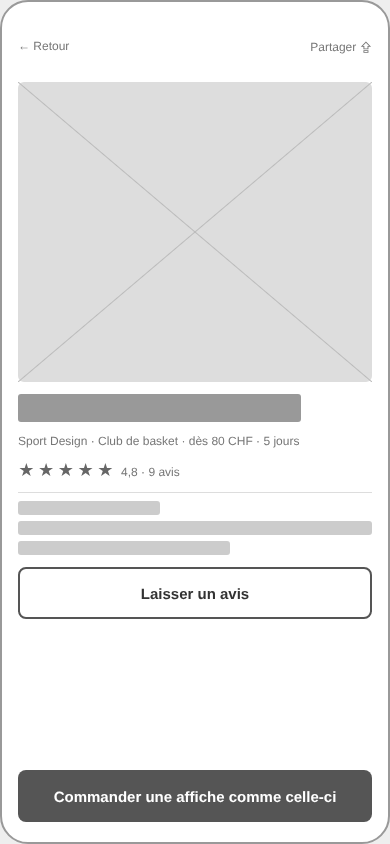
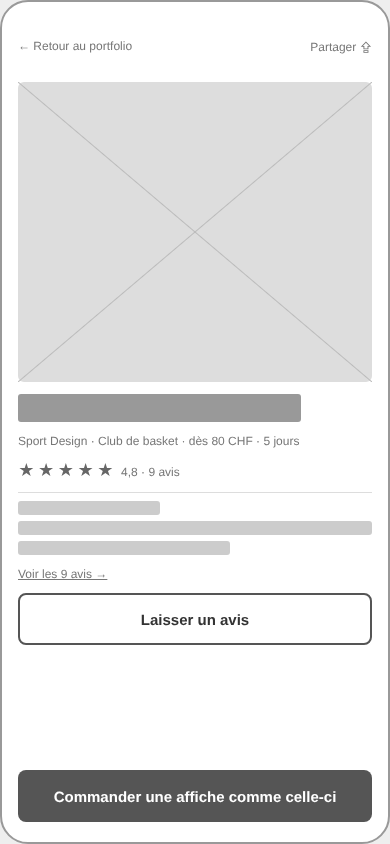
Revue croisée Marlon, proposition A style site, wireframe confirmation

diff --git a/brief.md b/brief.md
@@ -15,6 +15,7 @@ Marc, 34 ans, responsable communication bénévole d’un club de basket. Il uti
 - Écran 2 : Fiche réalisation
 - Écran 3 : Commander une affiche
 - Écran 4 : Contact / Rendez-vous
+- Écran 5 : Confirmation (après commande ou message)
 
 ## Contenu de chaque écran
 
@@ -25,12 +26,12 @@ Marc, 34 ans, responsable communication bénévole d’un club de basket. Il uti
 
 ### Écran 2 — Fiche réalisation
 - On y voit : grande image, titre, client, catégorie, prix « dès … CHF », délai, note moyenne et liste des avis.
-- On peut y faire : lire et laisser un avis (note 1–5 + commentaire), partager la réalisation, revenir à la liste.
+- On peut y faire : voir tous les avis (lien « Voir les avis »), laisser un avis (note 1–5 + commentaire), partager la réalisation, revenir au portfolio (bouton « ← Retour au portfolio »).
 - Bouton principal : « Commander une affiche comme celle-ci »
 
 ### Écran 3 — Commander une affiche
-- On y voit : un formulaire court (type d’affiche, club / nom, date, infos, e-mail), le prix indicatif, puis un écran de confirmation.
-- On peut y faire : choisir le type (match, événement, présentation joueur), remplir et envoyer, partager après envoi.
+- On y voit : un formulaire court (type d’affiche, club / nom, date, infos, e-mail) et le prix indicatif.
+- On peut y faire : choisir le type (match, événement, présentation joueur), remplir et envoyer, revenir à la réalisation (« ← Retour »).
 - Bouton principal : « Envoyer ma commande »
 
 ### Écran 4 — Contact / Rendez-vous
@@ -38,18 +39,27 @@ Marc, 34 ans, responsable communication bénévole d’un club de basket. Il uti
 - On peut y faire : envoyer un message ou demander un rendez-vous.
 - Bouton principal : « Envoyer »
 
+### Écran 5 — Confirmation
+- On y voit : une coche, « Commande envoyée ! Réponse sous 48 h. »
+- On peut y faire : partager, me contacter, revenir au portfolio.
+- Bouton principal : « Retour au portfolio »
+
+## Fonctions simulées (prototype)
+
+L’app est un prototype : l’envoi des commandes et des messages, la demande de rendez-vous, l’enregistrement des avis et le partage sont **simulés** (données en JavaScript / stockage local, pas de serveur ni d’e-mail réel). L’écran de confirmation l’indique.
+
 ## Ambiance visuelle
 
-Audacieuse, premium, sportive. Comme une affiche de match : grosses typos, fond sombre, une seule couleur qui claque.
+Audacieuse, premium, sportive. Dans le même style que mon site zinedinelakhbir.ch : grand bandeau orange, gros titres en majuscules, cartes numérotées arrondies.
 
 ## Palette
 
-- Fond : noir profond
-- Texte : blanc cassé
+- Fond : blanc rosé très clair
+- Texte : noir profond
 - Accent : orange vif (couleur ZL Design)
-- Attention / erreur : rouge clair, bien lisible sur fond noir
+- Attention / erreur : rouge foncé, bien lisible sur fond clair
 
-(Couleurs en mots pour l’instant ; hex en s7-s9.)
+(Couleurs en mots pour l’instant ; hex en s7-s9. Référence : brandboard ZL Design.)
 
 ## Contraintes techniques
 
@@ -63,3 +73,11 @@ Audacieuse, premium, sportive. Comme une affiche de match : grosses typos, fond 
 - pas de paiement en ligne
 - pas de pop-up ni de bannière publicitaire
 - pas de formulaire de plus de 5 champs
+
+## Revue croisée — Marlon Pavid
+
+1. L’app se comprend rapidement : portfolio → réalisation → commande / contact.
+2. Pas d’écran manquant, mais ajouter des boutons clairs : retour au portfolio, retour après confirmation, accès aux avis.
+3. Faisable en 4 semaines. Attention aux commandes réellement envoyées, au rendez-vous, aux avis et au partage : préciser que c’est simulé.
+
+**Corrections apportées :** boutons « Retour au portfolio » (écrans 2 et 5) et « Retour » (écran 3), lien « Voir les avis » (écran 2), écran 5 Confirmation ajouté, section « Fonctions simulées » ajoutée.

diff --git a/design/critique.md b/design/critique.md
@@ -1,20 +1,20 @@
 # Critique comparative des propositions de design
 
-Les 3 propositions de l’écran Accueil / Portfolio ont été générées avec une IA (Claude) à partir de [brief.md](../brief.md) et des wireframes. Images : `design/propositions/`.
+Les 3 propositions de l’écran Accueil / Portfolio ont été générées avec une IA (Claude) à partir de [brief.md](../brief.md), des wireframes et du brandboard ZL Design. Images : `design/propositions/`.
 
-## Proposition A — « Matchday »
+## Proposition A — « Matchday » (style zinedinelakhbir.ch)
 
 ![A](propositions/proposition-A-matchday.png)
 
-- **Points forts :** colle à l’ambiance du brief (« comme une affiche de match »), titre très impactant, couleurs de la marque ZL (noir + orange), filtre actif bien visible, gros bouton orange facile au pouce. Contraste : orange sur noir 6,5:1, blanc sur noir 19,9:1 → WCAG AA respecté.
-- **Points faibles :** les majuscules partout fatiguent à la lecture, le titre prend beaucoup de place, ce qui pousse les réalisations plus bas.
+- **Points forts :** même univers que mon site et mon brandboard : logo ZL., fond blanc rosé, bandeau orange, gros titres en majuscules (Nimbus Sans), boutons numérotés 01 / 02 / 03, cartes de réalisations numérotées et arrondies. L’app et le site forment une seule marque. Filtre actif et bouton principal bien visibles, faciles au pouce.
+- **Points faibles :** le texte blanc sur orange n’a qu’un contraste de 2,7:1, donc il échoue au WCAG AA (le bouton, le slogan et les boutons 01 / 02 / 03). Le bandeau prend de la place et pousse les réalisations vers le bas.
 
 ## Proposition B — « Galerie »
 
 ![B](propositions/proposition-B-galerie.png)
 
 - **Points forts :** très lisible, élégant, met en valeur le Branding. Contraste excellent (texte gris 7,1:1).
-- **Points faibles :** trop calme pour du sport design, une seule colonne donc seulement 2 réalisations visibles, l’orange est presque absent, le bouton principal ne ressort pas assez. Ne correspond pas à « audacieuse, sportive ».
+- **Points faibles :** trop calme pour du sport design, une seule colonne donc seulement 2 réalisations visibles, l’orange est presque absent, le bouton principal ne ressort pas assez.
 
 ## Proposition C — « Galaxie »
 
@@ -28,16 +28,16 @@ Les 3 propositions de l’écran Accueil / Portfolio ont été générées avec 
 | Critère | A Matchday | B Galerie | C Galaxie |
 |---|---|---|---|
 | Respect de l’ambiance du brief | ✅ | ❌ | ⚠ |
-| Identité ZL Design (noir / orange) | ✅ | ⚠ | ❌ |
-| Contraste WCAG AA | ✅ | ✅ | ❌ |
+| Identité ZL Design (brandboard + site) | ✅ | ⚠ | ❌ |
+| Contraste WCAG AA | ⚠ (à corriger) | ✅ | ❌ |
 | Bouton principal visible (48 px +) | ✅ | ⚠ | ✅ |
-| Réalisations visibles sans scroller | 4 | 2 | 4 |
+| Réalisations visibles sans scroller | 2 (carrousel) | 2 | 4 |
 
 ## Choix final : Proposition A — « Matchday »
 
-C’est celle qui répond le mieux au persona (Marc veut voir des exemples sport et commander vite) et à la direction artistique : audacieuse, premium, sportive.
+C’est celle qui répond le mieux au persona (Marc veut voir des exemples sport et commander vite) et à la direction artistique. En plus, elle est cohérente avec mon site et mon brandboard.
 
 **Corrections à apporter :**
-1. Majuscules seulement pour le titre et les boutons, texte courant en minuscules.
-2. Titre un peu plus petit pour afficher les réalisations plus haut.
+1. Contraste : texte **noir** sur les boutons orange (7,1:1), ou orange foncé derrière le texte blanc. Le grand titre blanc reste possible avec une ombre portée.
+2. Bandeau un peu moins haut pour faire remonter les réalisations.
 3. Reprendre la mise en page aérée de B pour la fiche réalisation et les formulaires.

diff --git a/design/user-flow.md b/design/user-flow.md
@@ -17,7 +17,7 @@
    *Feedback :* le formulaire s’ouvre avec le type d’affiche déjà sélectionné (Match).
 5. **Formulaire de commande** — Il remplit club, date du match, infos, e-mail, puis touche « Envoyer ma commande ».  
    *Feedback :* le bouton affiche « Envoi… » puis l’écran change.
-6. **Confirmation** — « Commande envoyée ! Réponse sous 48 h. » + boutons « Partager » et « Me contacter ».  
+6. **Confirmation** — « Commande envoyée ! Réponse sous 48 h. » + boutons « Partager », « Me contacter » et « Retour au portfolio » (envoi simulé dans le prototype).  
    *Objectif accompli :* commande passée en moins de 3 minutes.
 
 ## Variante d’échec (optionnel)
